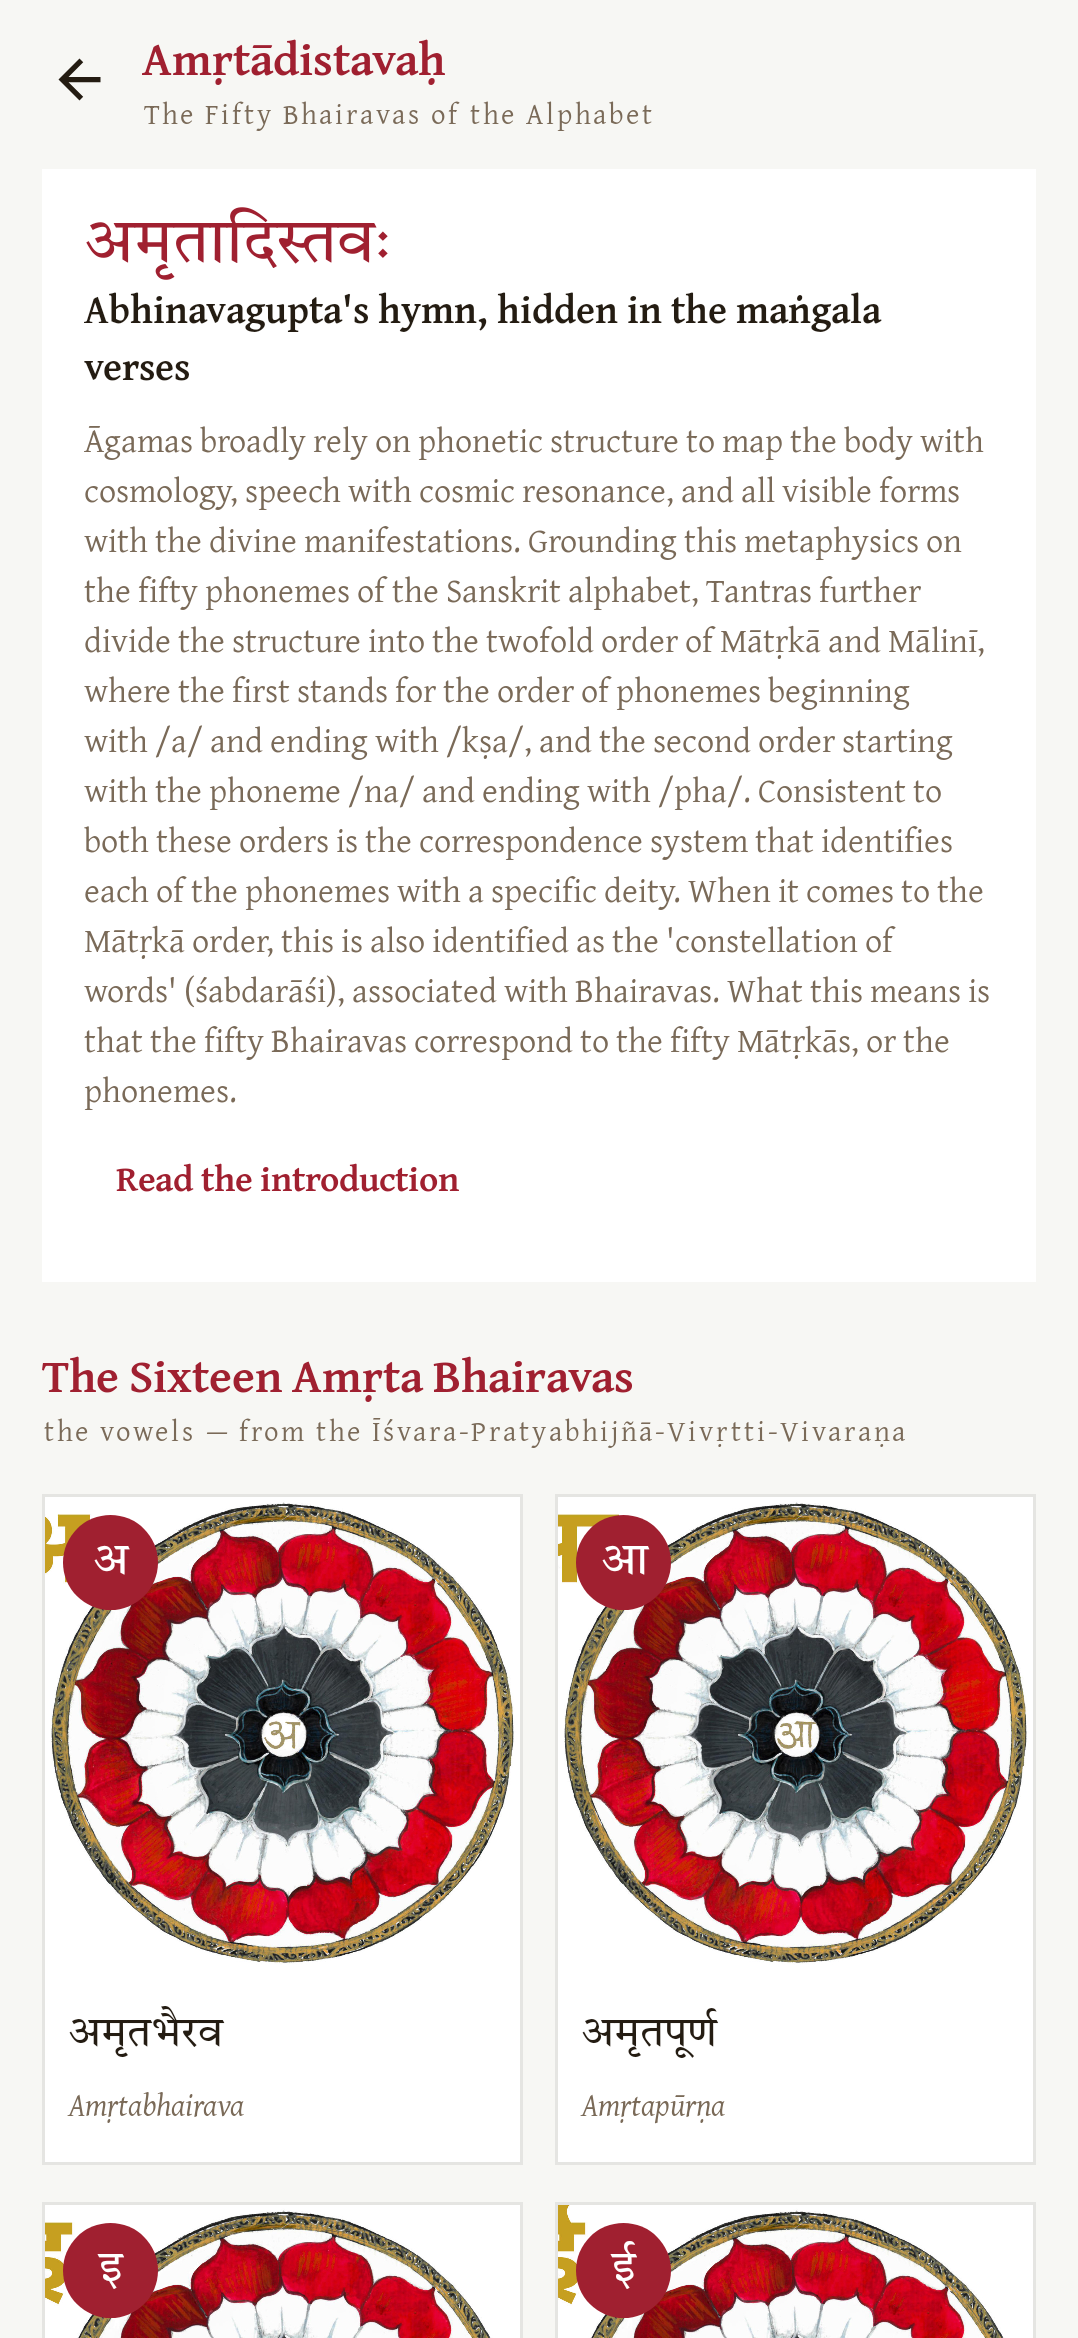
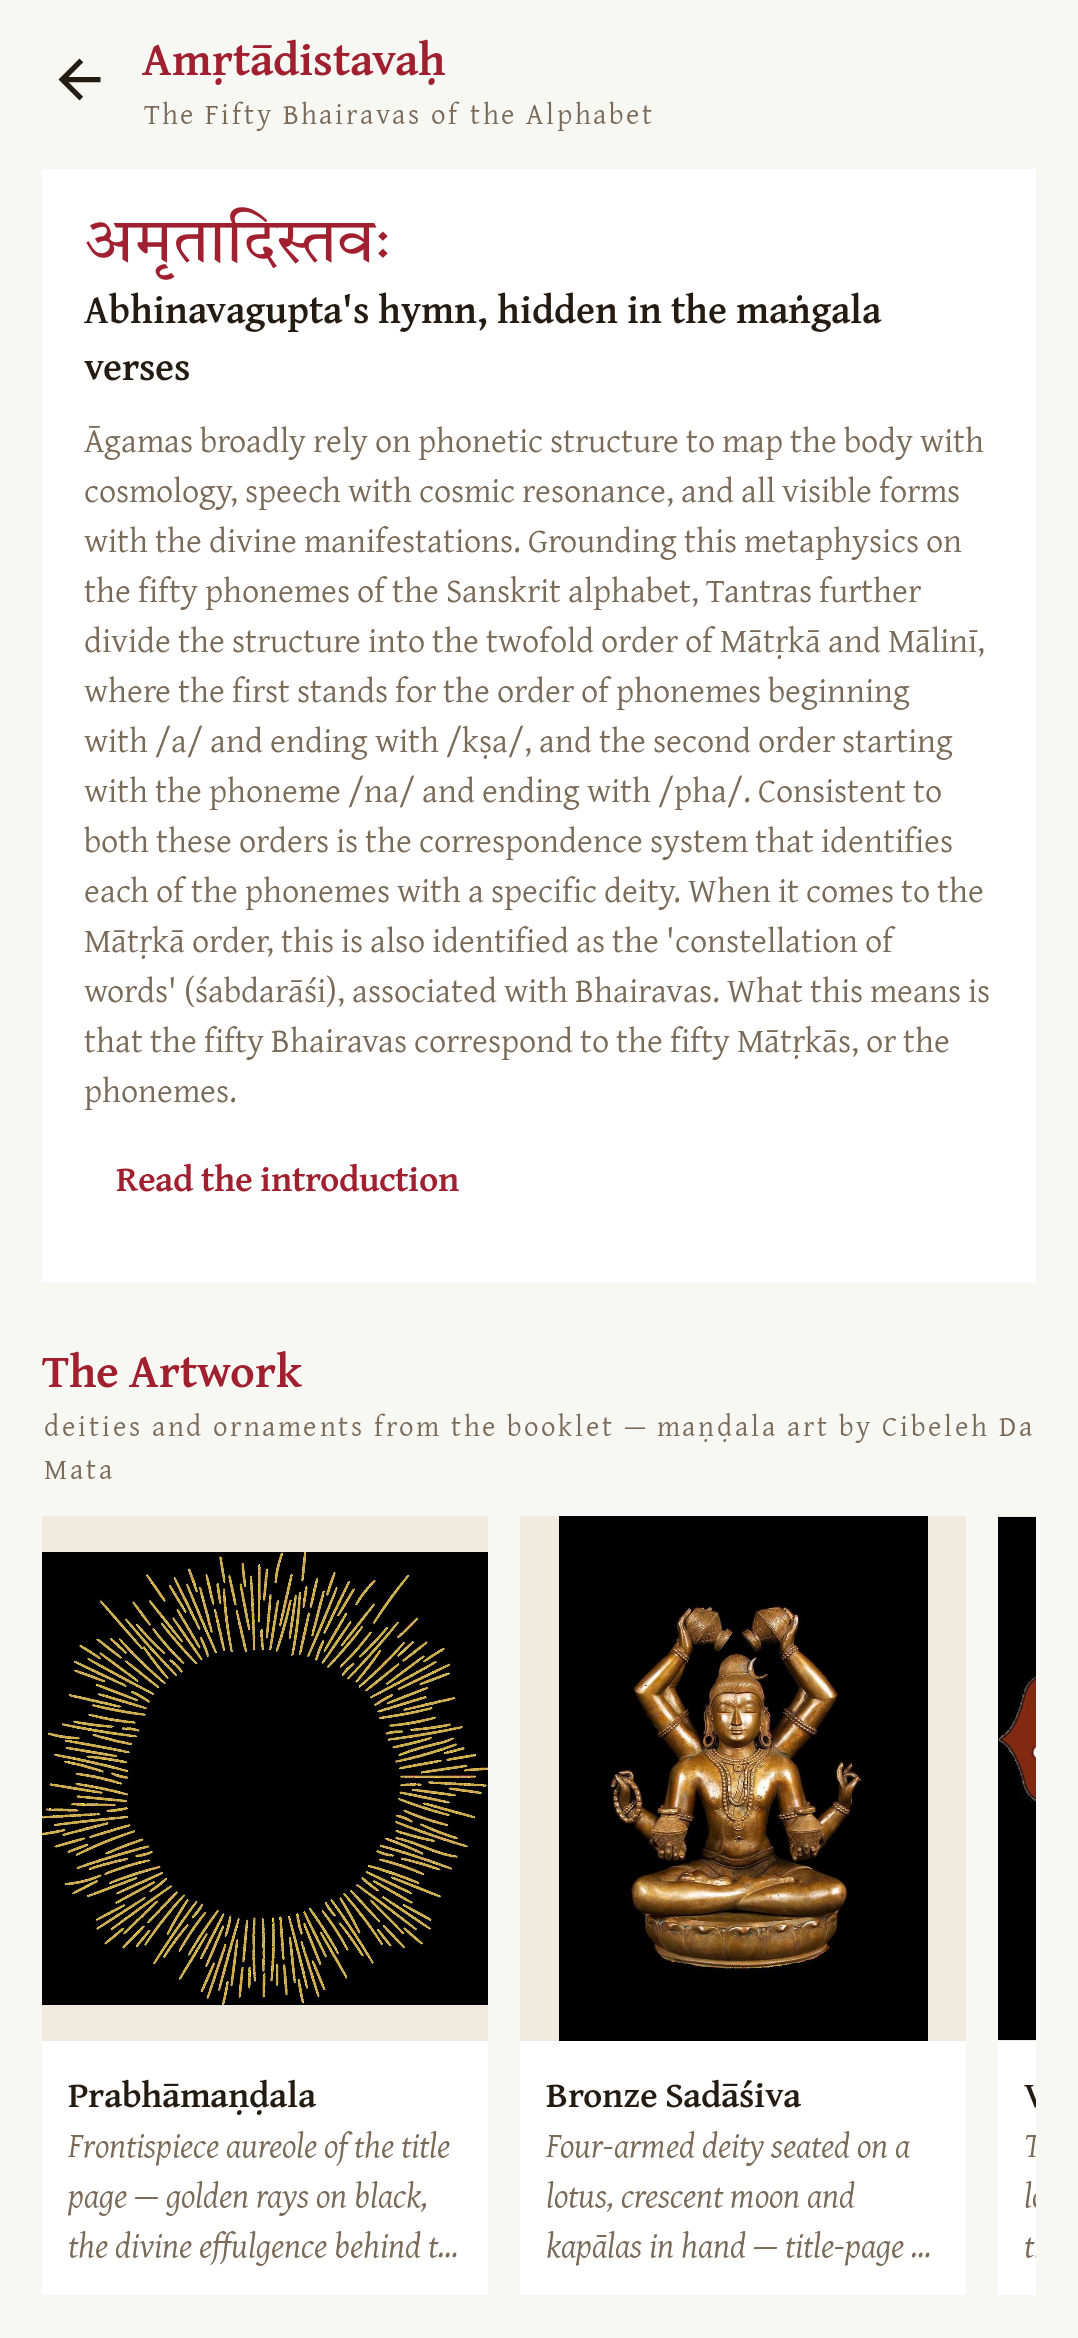
Add artwork gallery to Amṛtādistavaḥ screen
- Export 11 deity illustrations/big artworks from the booklet into assets
  (frontispiece prabhāmaṇḍala, bronze Sadāśiva, foundation emblem, intro deity,
  five-deity register, lineage painting, Heruka yab-yum, bodhisattva stele,
  Cakrasaṃvara relief, crowned bodhisattva, paubha maṇḍala)
- ArtworkGallery composable: horizontal scroll row + tap-to-enlarge dialog
- Contextual captions per piece (style, iconography, booklet page role)
- Light/dark theme aware; screenshot tests updated

Changed region(s): [[0.0306, 0.562, 0.9796, 1.0]]

diff --git a/app/src/main/java/com/madhav/bhairava/ui/ArtworkGallery.kt b/app/src/main/java/com/madhav/bhairava/ui/ArtworkGallery.kt
@@ -1,0 +1,217 @@
+package com.madhav.bhairava.ui
+
+import androidx.compose.foundation.Image
+import androidx.compose.foundation.background
+import androidx.compose.foundation.clickable
+import androidx.compose.foundation.layout.Arrangement
+import androidx.compose.foundation.layout.Box
+import androidx.compose.foundation.layout.Column
+import androidx.compose.foundation.layout.PaddingValues
+import androidx.compose.foundation.layout.Row
+import androidx.compose.foundation.layout.Spacer
+import androidx.compose.foundation.layout.fillMaxSize
+import androidx.compose.foundation.layout.fillMaxWidth
+import androidx.compose.foundation.layout.height
+import androidx.compose.foundation.layout.padding
+import androidx.compose.foundation.layout.width
+import androidx.compose.foundation.lazy.LazyRow
+import androidx.compose.foundation.lazy.items
+import androidx.compose.foundation.shape.RoundedCornerShape
+import androidx.compose.material3.Card
+import androidx.compose.material3.CardDefaults
+import androidx.compose.material3.MaterialTheme
+import androidx.compose.material3.Text
+import androidx.compose.runtime.Composable
+import androidx.compose.runtime.getValue
+import androidx.compose.runtime.mutableStateOf
+import androidx.compose.runtime.remember
+import androidx.compose.runtime.setValue
+import androidx.compose.ui.Alignment
+import androidx.compose.ui.Modifier
+import androidx.compose.ui.draw.clip
+import androidx.compose.ui.layout.ContentScale
+import androidx.compose.ui.text.font.FontStyle
+import androidx.compose.ui.text.style.TextAlign
+import androidx.compose.ui.unit.dp
+import androidx.compose.ui.unit.sp
+import androidx.compose.ui.window.Dialog
+
+/** One piece of booklet artwork shown in the gallery. */
+data class Artwork(
+    val asset: String,
+    val title: String,
+    val caption: String
+)
+
+val ArtworkGalleryItems = listOf(
+    Artwork(
+        "art_frontispiece.jpg",
+        "Prabhāmaṇḍala",
+        "Frontispiece aureole of the title page — golden rays on black, the divine effulgence behind the deities."
+    ),
+    Artwork(
+        "art_sadashiva.jpg",
+        "Bronze Sadāśiva",
+        "Four-armed deity seated on a lotus, crescent moon and kapālas in hand — title-page bronze."
+    ),
+    Artwork(
+        "art_emblem.jpg",
+        "Vimarsha Foundation",
+        "The foundation emblem — a lotus maṇḍala of bījas around the third eye. Maṇḍala art by Cibeleh Da Mata."
+    ),
+    Artwork(
+        "art_intro_deity.jpg",
+        "Deity of the Introduction",
+        "Green-bodied four-armed deity with triśūla, in royal ease beneath a kīrtimukha arch — introduction page."
+    ),
+    Artwork(
+        "art_five_deities.jpg",
+        "Register of Five Deities",
+        "Pañcāyatana-style registers of enthroned deities with red halos — a painted manuscript plate."
+    ),
+    Artwork(
+        "art_lineage.jpg",
+        "Lineage Painting",
+        "The lord with two devotees in red robes and an offering-bearer — a guru-lineage / donor portrait."
+    ),
+    Artwork(
+        "art_heruka.jpg",
+        "Heruka in Yab-Yum",
+        "Brass sculpture of the deity in union with his consort upon the vehicle — colophon plate."
+    ),
+    Artwork(
+        "art_stele.jpg",
+        "Bodhisattva Stele",
+        "Seated bodhisattva in royal ease within a flaming aureole, attendant figures below."
+    ),
+    Artwork(
+        "art_chakrasamvara.jpg",
+        "Cakrasaṃvara Relief",
+        "Twelve-armed deity in embrace with Vajravārāhī, ringed by small shrine figures — stone relief."
+    ),
+    Artwork(
+        "art_bodhisattva.jpg",
+        "Crowned Bodhisattva",
+        "Six-armed crowned bodhisattva in lotus posture, dharmacakra mudrā — stone sculpture."
+    ),
+    Artwork(
+        "art_paubha.jpg",
+        "Maṇḍala Painting",
+        "Newar-style paubha: central deity ringed by a lotus of smaller deities — the booklet's closing maṇḍala."
+    )
+)
+
+@Composable
+fun ArtworkGallery() {
+    var selected by remember { mutableStateOf<Artwork?>(null) }
+
+    Column {
+        Text(
+            "The Artwork",
+            style = MaterialTheme.typography.titleMedium,
+            color = MaterialTheme.colorScheme.primary
+        )
+        Text(
+            "deities and ornaments from the booklet — maṇḍala art by Cibeleh Da Mata",
+            style = MaterialTheme.typography.labelSmall,
+            color = MaterialTheme.colorScheme.onSurfaceVariant
+        )
+        Spacer(Modifier.height(10.dp))
+        LazyRow(
+            horizontalArrangement = Arrangement.spacedBy(12.dp),
+            contentPadding = PaddingValues(end = 4.dp)
+        ) {
+            items(ArtworkGalleryItems) { art ->
+                ArtworkCard(art, onClick = { selected = art })
+            }
+        }
+    }
+
+    selected?.let { art ->
+        Dialog(onDismissRequest = { selected = null }) {
+            Card(
+                shape = RoundedCornerShape(0.dp),
+                colors = CardDefaults.cardColors(containerColor = MaterialTheme.colorScheme.surface)
+            ) {
+                Column(Modifier.padding(14.dp)) {
+                    val img = rememberAssetImage(art.asset)
+                    if (img != null) {
+                        Image(
+                            bitmap = img,
+                            contentDescription = art.title,
+                            modifier = Modifier
+                                .fillMaxWidth()
+                                .clip(RoundedCornerShape(0.dp)),
+                            contentScale = ContentScale.Fit
+                        )
+                    }
+                    Spacer(Modifier.height(12.dp))
+                    Text(art.title, style = MaterialTheme.typography.titleSmall, color = MaterialTheme.colorScheme.primary)
+                    Spacer(Modifier.height(4.dp))
+                    Text(art.caption, style = MaterialTheme.typography.bodySmall)
+                    Spacer(Modifier.height(6.dp))
+                    Row(Modifier.fillMaxWidth(), horizontalArrangement = Arrangement.End) {
+                        Text(
+                            "Close",
+                            style = MaterialTheme.typography.labelLarge,
+                            color = MaterialTheme.colorScheme.primary,
+                            modifier = Modifier
+                                .clickable { selected = null }
+                                .padding(8.dp)
+                        )
+                    }
+                }
+            }
+        }
+    }
+}
+
+@Composable
+private fun ArtworkCard(art: Artwork, onClick: () -> Unit) {
+    val img = rememberAssetImage(art.asset)
+    Card(
+        modifier = Modifier
+            .width(170.dp)
+            .clickable(onClick = onClick),
+        shape = RoundedCornerShape(0.dp),
+        colors = CardDefaults.cardColors(containerColor = MaterialTheme.colorScheme.surface),
+        elevation = CardDefaults.cardElevation(defaultElevation = 1.dp)
+    ) {
+        Column {
+            Box(
+                Modifier
+                    .fillMaxWidth()
+                    .height(200.dp)
+                    .background(MaterialTheme.colorScheme.surfaceVariant),
+                contentAlignment = Alignment.Center
+            ) {
+                if (img != null) {
+                    Image(
+                        bitmap = img,
+                        contentDescription = art.title,
+                        modifier = Modifier.fillMaxSize(),
+                        contentScale = ContentScale.Fit
+                    )
+                } else {
+                    Text(art.title.take(1), fontFamily = com.madhav.bhairava.ui.theme.DevanagariFont, fontSize = 30.sp, color = MaterialTheme.colorScheme.primary)
+                }
+            }
+            Column(Modifier.padding(10.dp)) {
+                Text(
+                    art.title,
+                    style = MaterialTheme.typography.labelLarge,
+                    maxLines = 1,
+                    overflow = androidx.compose.ui.text.style.TextOverflow.Ellipsis
+                )
+                Text(
+                    art.caption,
+                    style = MaterialTheme.typography.bodySmall,
+                    fontStyle = FontStyle.Italic,
+                    maxLines = 3,
+                    overflow = androidx.compose.ui.text.style.TextOverflow.Ellipsis,
+                    textAlign = TextAlign.Start
+                )
+            }
+        }
+    }
+}

diff --git a/app/src/main/java/com/madhav/bhairava/ui/AmrtaListScreen.kt b/app/src/main/java/com/madhav/bhairava/ui/AmrtaListScreen.kt
@@ -77,6 +77,13 @@ fun AmrtaListScreen(onBack: () -> Unit, onOpen: (Int) -> Unit) {
         ) {
             item(span = { GridItemSpan(maxLineSpan) }) { AmrtaIntroCard(lib) }
             item(span = { GridItemSpan(maxLineSpan) }) {
+                Column {
+                    Spacer(Modifier.height(6.dp))
+                    ArtworkGallery()
+                    Spacer(Modifier.height(6.dp))
+                }
+            }
+            item(span = { GridItemSpan(maxLineSpan) }) {
                 SectionHeader(
                     "The Sixteen Amṛta Bhairavas",
                     "the vowels — from the Īśvara-Pratyabhijñā-Vivṛtti-Vivaraṇa"
